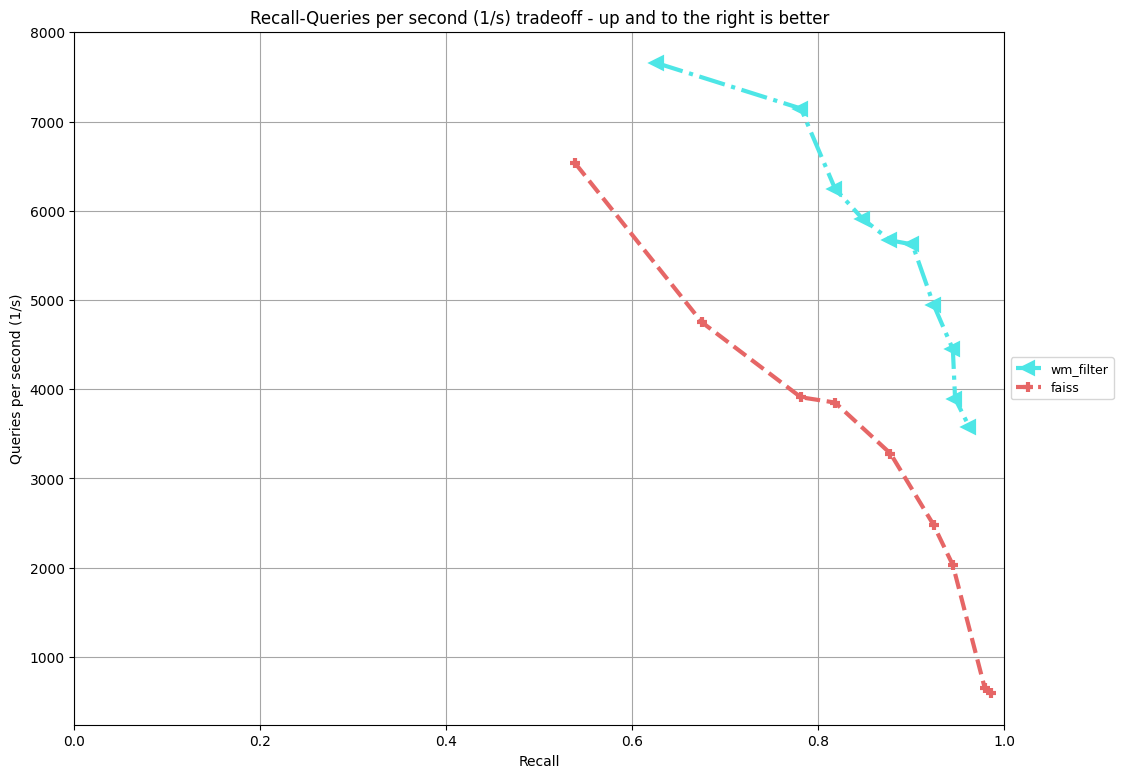
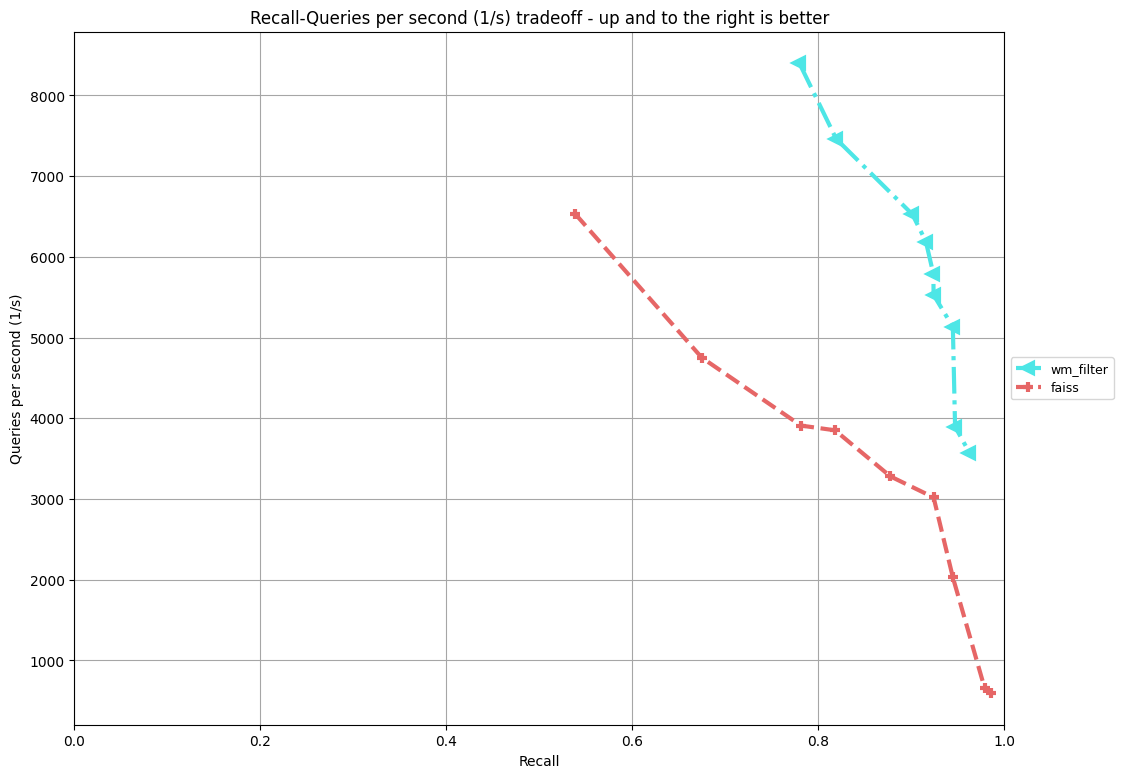
added newoption for differentmethods

diff --git a/neurips23/filter/wm_filter/wm_filter.py b/neurips23/filter/wm_filter/wm_filter.py
@@ -25,14 +25,72 @@ def make_id_selector_cluster_aware(indices, limits, clusters, cluster_limits):
     sp = faiss.swig_ptr
     return faiss.IDSelectorIVFClusterAware(sp(indices), sp(limits), sp(clusters), sp(cluster_limits))
 
-def prepare_filter_by_cluster(docs_per_word, index):
-    print('creating filter cluster')
+def make_id_selector_cluster_aware_intersect(indices, limits, clusters, cluster_limits):
+    sp = faiss.swig_ptr
+    return faiss.IDSelectorIVFClusterAwareIntersect(sp(indices), sp(limits), sp(clusters), sp(cluster_limits))
+
+def make_id_selector_cluster_aware_direct(id_position_in_cluster, limits, clusters,  cluster_limits):
+    sp = faiss.swig_ptr
+    return faiss.IDSelectorIVFClusterAwareIntersectDirect(sp(id_position_in_cluster), sp(limits), sp(clusters), sp(cluster_limits))
+
+
+
+def spot_check_filter(docs_per_word, index, indices, limits, clusters, cluster_limits):
+    print('running spot check')
     inverted_lists = index.invlists
     from_id_to_map = dict()
     for i in range(inverted_lists.nlist):
         list_ids, _ = get_invlist(inverted_lists, i)
         for id in list_ids:
             from_id_to_map[id] = i
+
+    indptr = docs_per_word.indptr
+
+    ## lets' run some spot check
+    for word in [0, 5000, 12124, 151123]:
+    #for word in range(docs_per_word.shape[0]):
+    #for word in [docs_per_word.shape[0]-1 ]:
+        c_start = cluster_limits[word]
+        c_end = cluster_limits[word + 1]
+        assert c_end >= c_start
+
+        start = indptr[word]
+        end = indptr[word + 1]
+        ids_in_word = {id for id in docs_per_word.indices[start:end]}
+
+        cluster_base = -1
+        for pos, cluster in enumerate(clusters[c_start: c_end]):
+            if cluster_base == -1:
+                cluster_base = cluster
+            else:
+                assert cluster != cluster_base
+                cluster_base = cluster
+            for id in indices[limits[c_start + pos]: limits[c_start + pos + 1]]:
+                assert from_id_to_map[id] == cluster
+                assert id in ids_in_word
+                ids_in_word.remove(id)
+        assert len(ids_in_word) == 0  # we should have covered all the ids in the word with the clusters
+
+def find_max_interval(limits):
+
+    out = -1
+    for i in range(len(limits)-1):
+        delta = limits[i+1] - limits[i]
+        if delta > out:
+            out = delta
+    return out
+
+
+def prepare_filter_by_cluster(docs_per_word, index):
+    print('creating filter cluster')
+    inverted_lists = index.invlists
+    from_id_to_map = dict()
+    from_id_to_pos = dict()
+    for i in range(inverted_lists.nlist):
+        list_ids, _ = get_invlist(inverted_lists, i)
+        for pos, id in enumerate(list_ids):
+            from_id_to_map[id] = i
+            from_id_to_pos[id] = pos
     print('loaded the mapping with {} entries'.format(len(from_id_to_map)))
 
     ## reorganize the docs per word
@@ -40,6 +98,7 @@ def prepare_filter_by_cluster(docs_per_word, index):
     cluster_limits = [0]
     clusters = list()
     limits = list()
+    id_position_in_cluster = list()
 
     indices = np.array(docs_per_word.indices)
     indptr = docs_per_word.indptr
@@ -51,6 +110,8 @@ def prepare_filter_by_cluster(docs_per_word, index):
         array_ind_cluster = [(id, from_id_to_map[id]) for id in indices[start:end]]
         array_ind_cluster.sort(key=lambda x: x[1])
 
+        if len(array_ind_cluster) == 0:
+            print('!!!!!!!!!!!!!!!!!!!!!!!!!!!!!!!!!!!!!!!!!!!!!!!there is am empty word!!!!!!!!!!!!!!!!!!!!!!!!!!!!!!!!!!!!!!!!!!!!!!!!!!!!!!!!!!!!!!!!!!!!!!!!!!!!!!!!!!!!!!!!!!!!!!!!!!!!!!!!!!!!!!!!!!!!!!!!!!!!!!!!!!!!!!!!!!!!')
         local_clusters = []
         local_limits = []
         current_cluster = -1
@@ -61,17 +122,20 @@ def prepare_filter_by_cluster(docs_per_word, index):
                 local_clusters.append(cluster)
                 local_limits.append(start + pos)
             indices[start + pos] = id
+            id_position_in_cluster.append(from_id_to_pos[id])
 
         clusters.extend(local_clusters)
         limits.extend(local_limits)
-        cluster_limits.append(len(local_clusters))
+        new_cluster_limit = len(local_clusters) + cluster_limits[-1]
+        cluster_limits.append( new_cluster_limit)
     limits.append(len(indices))
 
     clusters = np.array(clusters, dtype=np.int16)
     limits = np.array(limits, dtype=np.int32)
     cluster_limits = np.array(cluster_limits, dtype=np.int32)
+    id_position_in_cluster = np.array(id_position_in_cluster, dtype=np.int32)
 
-    return indices, limits, clusters, cluster_limits
+    return indices, limits, clusters, cluster_limits, id_position_in_cluster
 
 
 class FAISS(BaseFilterANN):
@@ -84,6 +148,7 @@ class FAISS(BaseFilterANN):
         self.indexkey = index_params.get("indexkey", "IVF32768,SQ8")
         self.metadata_threshold = 1e-3
         self.nt = index_params.get("threads", 1)
+        self.type = index_params.get("type", "intersect")
     
 
     def fit(self, dataset):
@@ -126,10 +191,11 @@ class FAISS(BaseFilterANN):
             self.freq_per_word = self.ndoc_per_word / self.nb
             del words_per_doc
 
-            self.indices, self.limits, self.clusters, self.cluster_limits = prepare_filter_by_cluster(self.docs_per_word, self.index)
+            self.indices, self.limits, self.clusters, self.cluster_limits, self.id_position_in_cluster = prepare_filter_by_cluster(self.docs_per_word, self.index)
             print('dumping cluster map')
-            pickle.dump((self.indices, self.limits, self.clusters, self.cluster_limits), open(self.cluster_sig_name(dataset), "wb"), -1)
-
+            pickle.dump((self.indices, self.limits, self.clusters, self.cluster_limits, self.id_position_in_cluster), open(self.cluster_sig_name(dataset), "wb"), -1)
+            spot_check_filter(self.docs_per_word, self.index, self.indices, self.limits, self.clusters,
+                              self.cluster_limits)
     
     def index_name(self, name):
         return f"data/{name}.{self.indexkey}_wm.faissindex"
@@ -176,14 +242,19 @@ class FAISS(BaseFilterANN):
         if ds.search_type() == "knn_filtered":
             if  os.path.isfile( self.cluster_sig_name(dataset)):
                 print('loading cluster file')
-                self.indices, self.limits, self.clusters, self.cluster_limits = pickle.load(open(self.cluster_sig_name(dataset), "rb"))
+                self.indices, self.limits, self.clusters, self.cluster_limits, self.id_position_in_cluster = pickle.load(open(self.cluster_sig_name(dataset), "rb"))
             else:
                 print('cluster file not found')
-                self.indices, self.limits, self.clusters, self.cluster_limits = prepare_filter_by_cluster(self.docs_per_word, self.index)
-                pickle.dump((self.indices, self.limits, self.clusters, self.cluster_limits), open(self.cluster_sig_name(dataset), "wb"), -1)
+                self.indices, self.limits, self.clusters, self.cluster_limits, self.id_position_in_cluster = prepare_filter_by_cluster(self.docs_per_word, self.index)
+                pickle.dump((self.indices, self.limits, self.clusters, self.cluster_limits, self.id_position_in_cluster), open(self.cluster_sig_name(dataset), "wb"), -1)
+
+            spot_check_filter(self.docs_per_word, self.index, self.indices, self.limits, self.clusters, self.cluster_limits)
 
         self.ps = faiss.ParameterSpace()
         self.ps.initialize(self.index)
+
+        max_range = find_max_interval(self.limits)
+        print('the max range is {}'.format(max_range))
 
         return True
 
@@ -235,7 +306,7 @@ class FAISS(BaseFilterANN):
                 freq *= freq_per_word[w2]
             else:
                 w2 = -1
-
+            #if False:
             if freq < self.metadata_threshold:
                 # metadata first
                 docs = csr_get_row_indices(docs_per_word, w1)
@@ -250,15 +321,24 @@ class FAISS(BaseFilterANN):
                 self.I[q, :] = docs[Ii.ravel()]
             else:
                 # IVF first, filtered search
-                #sel = make_id_selector_ivf_two(self.docs_per_word)
-                sel = make_id_selector_cluster_aware(self.indices, self.limits, self.clusters, self.cluster_limits)
+                if self.type == 'simple':
+                    sel = make_id_selector_ivf_two(self.docs_per_word)
+                elif self.type == "aware":
+                    sel = make_id_selector_cluster_aware(self.indices, self.limits, self.clusters, self.cluster_limits)
+                elif self.type == 'intersect':
+                    sel = make_id_selector_cluster_aware_intersect(self.indices, self.limits, self.clusters, self.cluster_limits)
+                elif self.type == 'direct':
+                    sel = make_id_selector_cluster_aware_direct(self.id_position_in_cluster, self.limits, self.clusters,
+                                                                   self.cluster_limits)
+                else:
+                    raise Exception('unknown type ', self.type)
                 sel.set_words(int(w1), int(w2))
 
 
                 if hasattr(self, 'k_factor') and self.k_factor > 0:
-                    params = faiss.SearchParametersIVF(sel=sel, nprobe=self.nprobe, k_factor=self.k_factor)
+                    params = faiss.SearchParametersIVF(sel=sel, nprobe=self.nprobe, k_factor=self.k_factor, max_codes=self.max_codes)
                 else:
-                    params = faiss.SearchParametersIVF(sel=sel, nprobe=self.nprobe)
+                    params = faiss.SearchParametersIVF(sel=sel, nprobe=self.nprobe, max_codes=self.max_codes)
 
                 _, Ii = self.index.search( X[q:q+1], k, params=params )
                 Ii = Ii.ravel()
@@ -286,6 +366,11 @@ class FAISS(BaseFilterANN):
             self.qas = query_args
         else:
             self.nprobe = 1
+        if "max_codes" in query_args:
+            self.max_codes = query_args['max_codes']
+            self.ps.set_index_parameters(self.index, f"max_codes={query_args['max_codes']}")
+        else:
+            self.max_codes = 0
         if "k_factor" in query_args:
             self.k_factor = query_args['k_factor']
             self.qas = query_args
@@ -296,6 +381,6 @@ class FAISS(BaseFilterANN):
             self.metadata_threshold = 1e-3
 
     def __str__(self):
-        return f'Faiss({self.indexkey, self.qas})'
+        return f'Faiss({self.indexkey,self.type, self.qas})'
 
    
